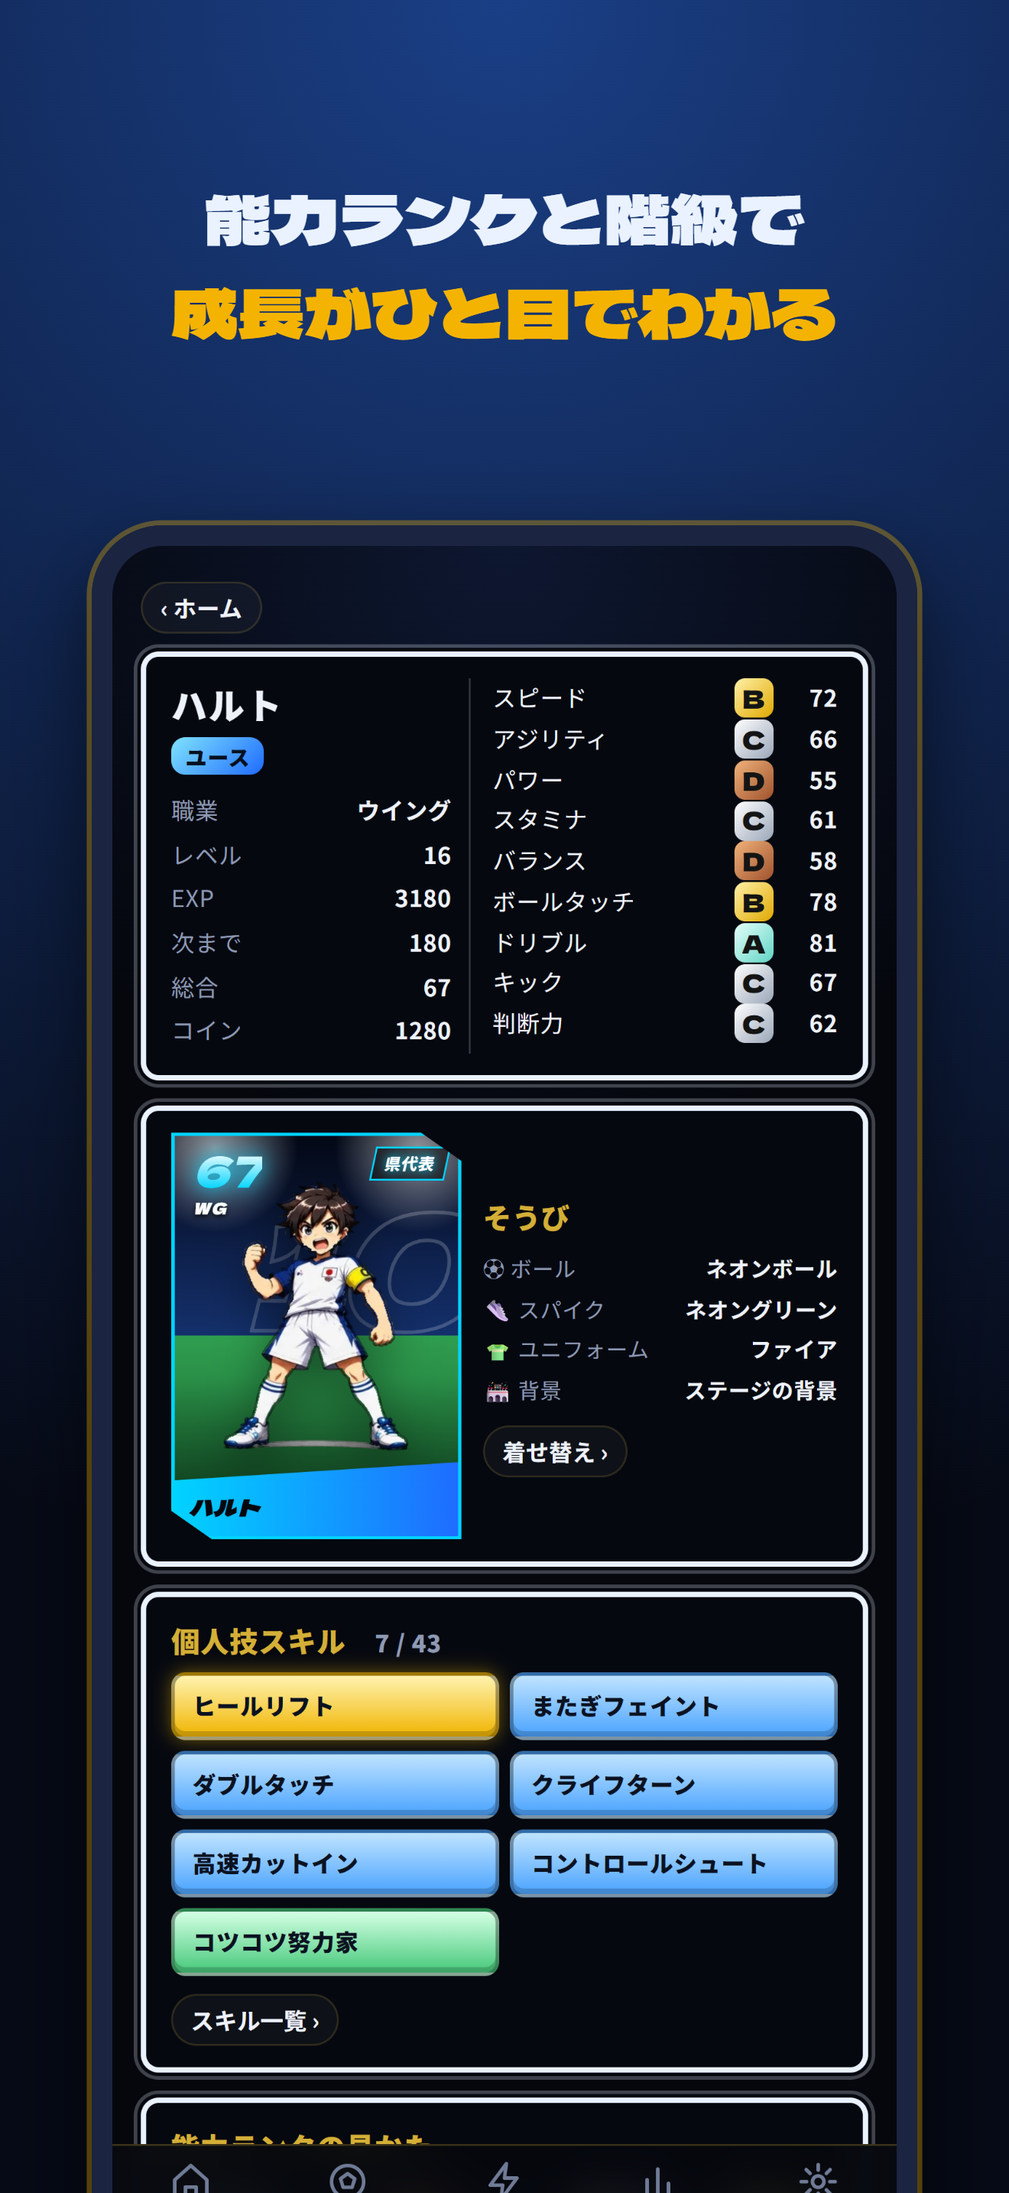
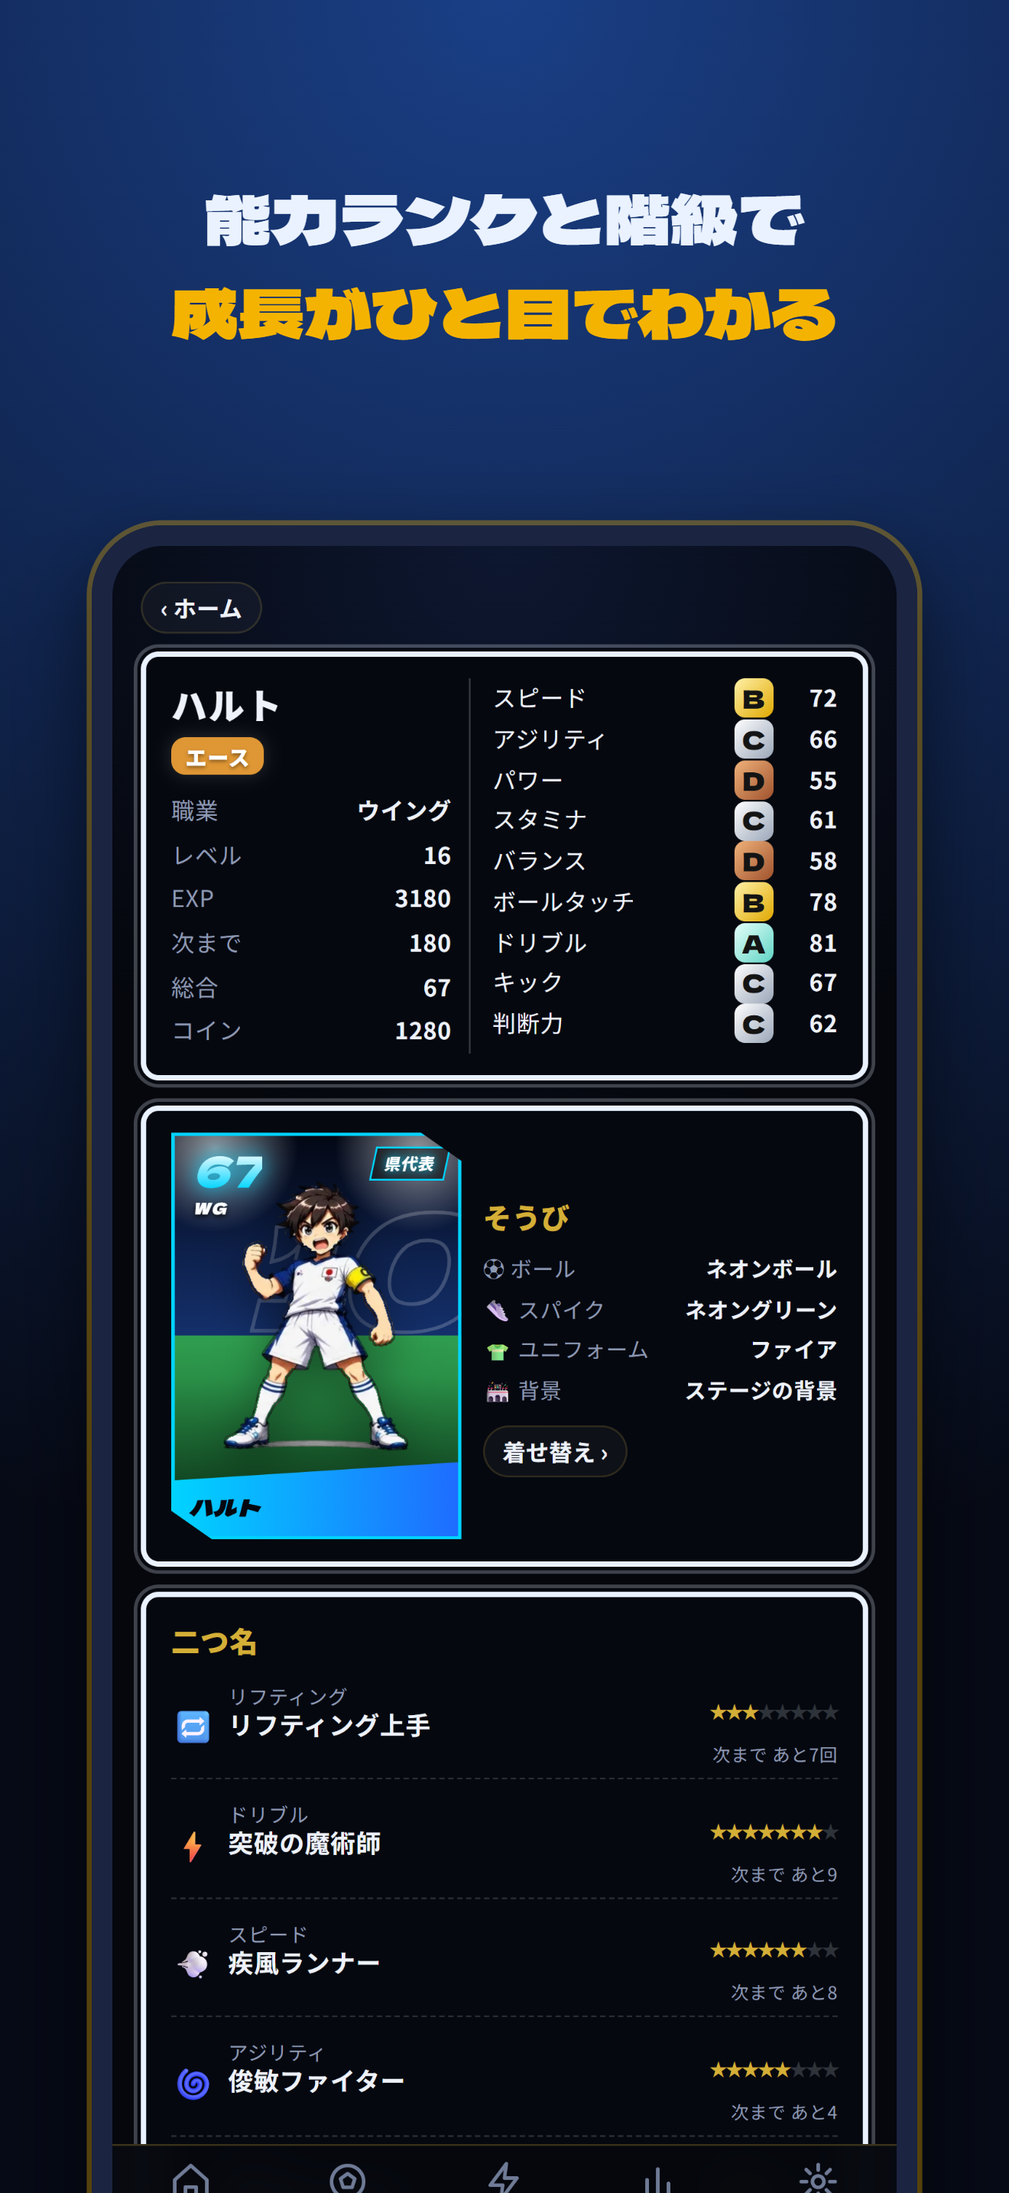
v0.9.0：階級を新しい案に・二つ名（14分野×8段階）・守備の練習メニュー
- 階級をビギナー→ルーキー→プレイヤー→レギュラー→エース→プロ→スーパースター→レジェンドに変更し、段階ごとの色をつけた
- メダルの1段目を「ノーマル」に（階級のビギナーと区別）
- 二つ名を追加：14分野×8段階。能力の分野は能力ランク（G〜S）、リフティング・シュート・パス・ディフェンス・チームワークは練習の回数で上がる
  - 上がったときは結果画面でお知らせ、つよさ画面で一覧と「次まで あと◯」を表示
  - 重なっていた名前（スピードスター）と、Lv1の「よちよち歩き」を見直し、アジリティ・バランスの二つ名を新しく作成
- ディフェンスの練習メニューを5種類追加（全57種類）
- テストを追加（27件）、ストア画像・資料の数字を更新

Changed region(s): [[0.1242, 0.7448, 0.8697, 0.962], [0.1553, 0.3103, 0.2795, 0.3724]]

diff --git a/app.js b/app.js
@@ -11,6 +11,7 @@ const GRPS=[
   {id:'core',   name:'体幹・バランス',   ic:'🧘', cat:'phy'},
   {id:'iq',     name:'頭のトレーニング', ic:'🧠', cat:'iq'},
   {id:'game',   name:'試合・チーム',     ic:'🏟', cat:'game'},
+  {id:'df',     name:'ディフェンス',     ic:'🛡', cat:'tec'},
 ];
 const M=(id,grp,name,lv,gain,d,how,rec)=>Object.assign({id,grp,cat:GRPS.find(g=>g.id===grp).cat,name,lv,gain,d,how,rec:null},rec||{});
 const MENUS=[
@@ -76,6 +77,12 @@ const MENUS=[
   // 試合・チーム
   M('game','game','試合・ミニゲーム',1,{iq:.6,stamina:.5,dribble:.3,kick:.3},'g_game',['試合やミニゲームに参加','練習したことを試してみる','うまくいったことをノートに書こう']),
   M('team','game','チーム練習',1,{iq:.4,stamina:.4,dribble:.3,kick:.3,touch:.3},'g_team',['チームの練習に参加','コーチの話をよく聞く','仲間と声をかけ合う']),
+  // ディフェンス
+  M('df_step','df','守備のサイドステップ',1,{agility:1,balance:.4},'a_side',['ひざを軽く曲げ、低い姿勢で構える','足をクロスさせずに横へステップ','相手を見たまま左右に動く'],{rec:'20秒で何往復？',unit:'回'}),
+  M('df_close','df','寄せてストップ',1,{speed:.6,agility:.6,iq:.3},'a_react',['合図でボール（相手）にダッシュで寄せる','近くなったら小さな歩幅でブレーキ','半身になって止まり、飛びこまない']),
+  M('df_1v1','df','1対1の守備',2,{balance:.8,power:.5,iq:.4},'c_1v1',['家族や友だちにドリブルしてもらう','体を斜めにして、外へ追いこむ','ボールだけでなく相手の腰を見る']),
+  M('df_tackle','df','ボールをうばうタイミング',2,{power:.7,balance:.6,iq:.3},'c_1v1',['相手のタッチが大きくなった瞬間をねらう','足だけでなく体ごと入る','うばったらすぐ前を向く']),
+  M('df_cover','df','守備の位置どりを考える',1,{iq:1},'i_image',['ボール・相手・ゴールを結ぶ線を想像する','その線の上（内側）に立つのが基本','試合の場面を思い出して考えてみよう']),
 ];
 
 /* ===== 図解イラスト（自分のキャラの色で描く・詳しい画面ではボールが動く） ===== */
@@ -393,7 +400,7 @@ function dressed(s,over){
 }
 
 /* ===== アプリ内ダイアログ（ブラウザ標準の alert/confirm は使わない） ===== */
-const APP_VERSION='0.8.3';
+const APP_VERSION='0.9.0';
 function closeOv(){document.getElementById('ov').classList.remove('show')}
 function dialog({icon='',title,msg='',ok='OK',cancel=null,danger=false}){
   return new Promise(res=>{
@@ -738,16 +745,49 @@ const STAGES=[
 const POSE_OF=[0,0,1,1,2,3,3,4];
 function stageOf(L){let r=0;STAGES.forEach((x,i)=>{if(L>=x.lv)r=i});return r}
 /* 階級：成長ステージ（舞台）と同じレベルで昇格する、選手としての格 */
-const RANKS=['はじめたばかり','キッズ','ジュニア','ジュニアユース','ユース','アマチュア','プロ','レジェンド'];
+const RANKS=['ビギナー','ルーキー','プレイヤー','レギュラー','エース','プロ','スーパースター','レジェンド'];
+const RANK_COL=['#8D939D','#36A269','#398BDC','#9062D0','#DF9634','#E34F4F','#24B9DF','#D4A52D'];
+const rankTag=(L,cls)=>`<span class="${cls||'ranktag'}" style="background:${RANK_COL[stageOf(L)]}">${rankOf(L)}</span>`;
 const rankOf=L=>RANKS[stageOf(L)];
-/* メダル：ビギナー→ブロンズ→シルバー→ゴールド→プラチナ→ダイヤ */
-const MEDALS=[{name:'ビギナー',k:'beg'},{name:'ブロンズ',k:'brz'},{name:'シルバー',k:'slv'},{name:'ゴールド',k:'gld'},{name:'プラチナ',k:'plt'},{name:'ダイヤ',k:'dia'}];
+/* メダル：ノーマル→ブロンズ→シルバー→ゴールド→プラチナ→ダイヤ */
+const MEDALS=[{name:'ノーマル',k:'beg'},{name:'ブロンズ',k:'brz'},{name:'シルバー',k:'slv'},{name:'ゴールド',k:'gld'},{name:'プラチナ',k:'plt'},{name:'ダイヤ',k:'dia'}];
 /* 能力ランク（S〜G）。数値の帯ごとにメダルの色 */
 function grade(r){
   const t=[[90,'S',5],[80,'A',4],[70,'B',3],[60,'C',2],[55,'D',1],[50,'E',1],[45,'F',0],[0,'G',0]].find(x=>r>=x[0]);
   return {g:t[1],m:MEDALS[t[2]],next:r>=90?null:[90,80,70,60,55,50,45].reverse().find(x=>x>r)};
 }
 const gradeTag=r=>{const G=grade(r);return `<b class="grade ${G.m.k}">${G.g}</b>`};
+/* 二つ名：分野ごとに8段階。能力の分野は 能力ランク（G〜S）と同じ段階、練習の分野は その練習の回数で上がる */
+const NICK_STEPS=[0,3,7,15,25,40,60,100];
+const NICKS=[
+  {id:'lift',name:'リフティング',ic:'🔁',grp:'lift',t:['リフティング見習い','ボールバウンサー','リフティング上手','リフティング名人','テクニシャン','ボールマスター','空中の魔術師','リフティング神']},
+  {id:'dribble',name:'ドリブル',ic:'⚡',stat:'dribble',t:['ドリブル見習い','ボール運び上手','ドリブラー','スーパードリブラー','ドリブルスター','ドリブル忍者','突破の魔術師','ドリブルレジェンド']},
+  {id:'speed',name:'スピード',ic:'💨',stat:'speed',t:['かけっこ初心者','かけっこ上手','スプリンター','快速ランナー','スピードスター','疾風ランナー','稲妻ランナー','光速の覇者']},
+  {id:'agility',name:'アジリティ',ic:'🌀',stat:'agility',t:['アジリティ見習い','ステップ上手','クイックステッパー','切り返し名人','俊敏ファイター','ターンの達人','残像ステップ','神速ステップ']},
+  {id:'power',name:'パワー',ic:'💥',stat:'power',t:['パワー見習い','力もち','パワーファイター','タフファイター','パワーエース','怪力ファイター','鋼の戦士','パワーレジェンド']},
+  {id:'stamina',name:'スタミナ',ic:'❤',stat:'stamina',t:['スタミナ見習い','元気ランナー','持久力ファイター','タフランナー','無限ランナー','鉄人','不屈の鉄人','無限の心臓']},
+  {id:'balance',name:'バランス',ic:'🧘',stat:'balance',t:['バランス見習い','ふんばり上手','体幹ファイター','ぶれない体','当たり負け知らず','鉄の体幹','不動の軸','体幹レジェンド']},
+  {id:'kick',name:'キック力',ic:'🦵',stat:'kick',t:['キック見習い','キッカー','パワーキッカー','ロングキッカー','キャノンキッカー','弾丸キッカー','雷撃キャノン','キックの覇者']},
+  {id:'shoot',name:'シュート',ic:'🥅',menus:['shoot','target'],t:['シュート見習い','ゴールチャレンジャー','シューター','ゴールハンター','ストライカー','エースストライカー','ゴールの魔術師','ゴールレジェンド']},
+  {id:'pass',name:'パス',ic:'🤝',menus:['pass','wall_1t','long_kick'],t:['パス見習い','パス上手','パサー','チャンスメーカー','プレーメーカー','アシストマスター','ピッチの司令塔','パスの魔術師']},
+  {id:'touch',name:'トラップ・タッチ',ic:'🦶',stat:'touch',t:['トラップ見習い','ボールキャッチャー','トラッパー','コントロール名人','ファーストタッチ職人','トラップマスター','吸い付く足','タッチの魔術師']},
+  {id:'df',name:'ディフェンス',ic:'🛡',grp:'df',t:['守備見習い','守備ファイター','ディフェンダー','ボールハンター','守備職人','鉄壁ディフェンダー','ピッチの番人','伝説の守護者']},
+  {id:'iq',name:'判断力',ic:'🧠',stat:'iq',t:['ひらめき見習い','観察上手','判断上手','ゲームリーダー','戦術家','ピッチの頭脳','先読みの達人','天才司令塔']},
+  {id:'team',name:'チームワーク',ic:'🏟',grp:'game',t:['仲間づくり見習い','応援マスター','チームプレイヤー','ムードメーカー','チームの支え','頼れるリーダー','キャプテン','絆のレジェンド']},
+];
+const GRADE_IDX={G:0,F:1,E:2,D:3,C:4,B:5,A:6,S:7};
+function nickOf(s,N){
+  if(N.stat){const v=rt(s,N.stat), i=GRADE_IDX[grade(v).g], nx=grade(v).next;return {i,t:N.t[i],cur:v,next:nx,unit:''}}
+  const n=s.logs.filter(l=>!l.rest&&(N.grp?(menuOf(l.menu)||{}).grp===N.grp:N.menus.includes(l.menu))).length;
+  let i=0; NICK_STEPS.forEach((x,j)=>{if(n>=x)i=j});
+  return {i,t:N.t[i],cur:n,next:NICK_STEPS[i+1]??null,unit:'回'};
+}
+/* 二つ名が上がったものを調べる（初めては記録だけ） */
+function nickUps(){
+  const first=!S.nick; S.nick=S.nick||{}; const ups=[];
+  NICKS.forEach(N=>{const x=nickOf(S,N);if(!first&&x.i>(S.nick[N.id]??0))ups.push({N,x});S.nick[N.id]=Math.max(x.i,S.nick[N.id]??0)});
+  return ups;
+}
 /* 練習メニューの熟練度：同じメニューを続けた回数でメダルが上がる */
 const MASTERY=[1,3,7,15,30,50];
 function mastery(s,id){
@@ -1128,7 +1168,7 @@ function homeView(){
     <button class="coin" onclick="go('shop')" style="position:absolute;right:14px;top:12px;z-index:5">🪙 ${S.coin||0}</button>
     ${cardView(S,L,stageOf(L))}
     ${t?`<div class="title-badge" style="margin-top:10px">${t.ic} ${t.name}</div><br>`:''}
-    <div class="lv">Lv. ${L}</div> <span class="ranktag">${rankOf(L)}</span> <span class="jobtag">${J.name}</span>
+    <div class="lv">Lv. ${L}</div> ${rankTag(L)} <span class="jobtag">${J.name}</span>
     <div class="xpbar"><i style="width:${r/n*100}%"></i></div>
     <div class="xptext">次のレベルまで あと${n-r} EXP</div>
     <div class="hprow"><b>HP</b><div class="hpbar"><i style="width:${hp}%;background:${hp<25?'#ff4d4d':hp<50?'#ffb020':'#3ee08f'}"></i></div><span>${hp}/100</span></div>
@@ -1261,7 +1301,8 @@ function unlocks(){
   if(newT.length&&!S.eq)S.eq=newT[newT.length-1].id;
   const newS=SKILLS.filter(k=>!S.skills.includes(k.name)&&k.ok(S));
   newS.forEach(k=>S.skills.push(k.name));
-  return {newT,newS};
+  const newN=nickUps();
+  return {newT,newS,newN};
 }
 function gain(xp,notes,coin=0){
   const before=lv(S.xp).L;
@@ -1269,7 +1310,8 @@ function gain(xp,notes,coin=0){
   const after=lv(S.xp).L;
   if(after>before){S.bp=(S.bp||0)+3*(after-before);notes.push(`育成ポイント +${3*(after-before)}`)}
   if(stageOf(after)>stageOf(before)){const R=STAGES[stageOf(after)];notes.push(`昇格！ 階級が <b>${rankOf(after)}</b> になった！`);notes.push(`ステージアップ！ <b>${R.name}</b>に進出！`)}
-  const {newT,newS}=unlocks();
+  const {newT,newS,newN}=unlocks();
+  newN.forEach(({N,x})=>notes.push(`${N.ic} ${N.name}の二つ名が <b>「${x.t}」</b> になった！`));
   const gear=GEAR.filter(g=>g.lv>before&&g.lv<=after);
   coin+=newT.length*30+(stageOf(after)>stageOf(before)?200:0);
   coin+=roadGain(xp,notes);
@@ -1281,10 +1323,11 @@ function gain(xp,notes,coin=0){
 function allot(id){
   if(!(S.bp>0))return;
   S.stats[id]=Math.max(S.stats[id],(rt(S,id)-40)*3)+3; S.bp--;
-  const {newT,newS}=unlocks();
+  const {newT,newS,newN}=unlocks();
   if(newT.length)S.coin=(S.coin||0)+newT.length*30;
   save();render();
-  if(newT.length||newS.length)showResult(0,1,1,newT,[],newT.length?[`🪙 コイン +${newT.length*30}`]:[],newS);
+  const nn=newN.map(({N,x})=>`${N.ic} ${N.name}の二つ名が <b>「${x.t}」</b> になった！`);
+  if(newT.length||newS.length||nn.length)showResult(0,1,1,newT,[],[...(newT.length?[`🪙 コイン +${newT.length*30}`]:[]),...nn],newS);
 }
 function showResult(xp,b,a,newT,gear,notes,newS=[]){
   const up=a>b, awk=stageOf(a)>stageOf(b);
@@ -1332,7 +1375,7 @@ function statusView(){
     <div class="dqwin stv-top">
       <div class="stv-l">
         <div class="stv-name">${esc(c.name)}</div>
-        <div class="stv-rank">${rankOf(L)}</div>
+        <div>${rankTag(L,'stv-rank')}</div>
         <div class="stv-row"><span>職業</span><b>${J.name}</b></div>
         <div class="stv-row"><span>レベル</span><b>${L}</b></div>
         <div class="stv-row"><span>EXP</span><b>${S.xp}</b></div>
@@ -1353,6 +1396,9 @@ function statusView(){
         <button class="chip mini" onclick="go('wardrobe')" style="margin-top:8px">着せ替え ›</button>
       </div>
     </div>
+    <div class="dqwin"><div class="stv-eqh">二つ名</div>
+      <div class="nicklist">${NICKS.map(N=>{const x=nickOf(S,N);return `<div class="nick"><span class="nic">${N.ic}</span><span class="nmain"><small>${N.name}</small><b>${x.t}</b></span><span class="nlv">${'★'.repeat(x.i+1)}<i>${'★'.repeat(7-x.i)}</i></span>${x.next!=null?`<span class="nnext">次まで あと${x.next-x.cur}${x.unit||''}</span>`:'<span class="nnext">最高！</span>'}</div>`}).join('')}</div>
+      <p class="sub" style="margin:8px 0 0">能力の分野は能力ランク（G〜S）で、練習の分野はその練習をした回数で上がるよ。</p></div>
     <div class="dqwin"><div class="stv-eqh">個人技スキル　<small>${got.length} / ${SKILLS.length}</small></div>
       <div class="skgrid">${got.length?got.map(k=>`<div class="skchip ${k.tier}">${k.name}</div>`).join(''):'<p class="sub" style="margin:4px 0">まだ習得していないよ。練習を続けてみよう！</p>'}</div>
       <button class="chip mini" onclick="go('skill')" style="margin-top:10px">スキル一覧 ›</button></div>

diff --git a/app.css b/app.css
@@ -394,3 +394,16 @@ li .skchip{display:inline-flex;min-height:0;padding:1px 8px;font-size:13px}
 .stv-eqh{font-weight:900;color:var(--gold);margin-bottom:6px}
 .stv-eqh small{color:var(--sub)}
 .stv-eq .stv-row{font-size:12px}
+
+/* 二つ名（v0.9.0） */
+.ranktag,.stv-rank{color:#fff!important;text-shadow:0 1px 2px rgba(0,0,0,.45);box-shadow:0 0 10px rgba(255,255,255,.15)}
+.nicklist{display:flex;flex-direction:column;gap:6px}
+.nick{display:grid;grid-template-columns:24px 1fr auto;grid-template-rows:auto auto;column-gap:8px;align-items:center;padding:6px 0;border-bottom:1px dashed rgba(234,242,255,.15)}
+.nick:last-child{border-bottom:0}
+.nick .nic{grid-row:1/3;font-size:18px;text-align:center}
+.nick .nmain{display:flex;flex-direction:column;line-height:1.3}
+.nick .nmain small{color:var(--sub);font-size:11px}
+.nick .nmain b{font-size:14px}
+.nick .nlv{color:var(--gold);font-size:10px;letter-spacing:-1px;text-align:right}
+.nick .nlv i{font-style:normal;color:rgba(234,242,255,.18)}
+.nick .nnext{grid-column:3;color:var(--sub);font-size:10px;text-align:right}

diff --git a/tools/store_shots.js b/tools/store_shots.js
@@ -17,7 +17,7 @@ const TYPES = { '.html': 'text/html; charset=utf-8', '.js': 'text/javascript; ch
 const SHOTS = [
   { tab: 'home', file: '1-home', cap: '練習するほど<br><em>自分の選手が強くなる</em>' },
   { tab: 'status', file: '2-status', cap: '能力ランクと階級で<br><em>成長がひと目でわかる</em>' },
-  { tab: 'practice', file: '3-practice', cap: '52種類の練習メニューを<br><em>イラストでわかりやすく</em>' },
+  { tab: 'practice', file: '3-practice', cap: '57種類の練習メニューを<br><em>イラストでわかりやすく</em>' },
   { tab: 'skill', file: '4-skill', cap: '練習を続けて<br><em>個人技スキルを習得</em>', js: "document.querySelector('.skhead').scrollIntoView()" },
   { tab: 'log', file: '5-log', cap: 'カレンダーで<br><em>続けた日がひと目でわかる</em>' },
   { tab: 'shop', file: '6-shop', cap: 'コインをためて<br><em>ボールやスパイクを着せ替え</em>' },

diff --git a/sw.js b/sw.js
@@ -1,6 +1,6 @@
 /* オフラインでも起動できるようにする Service Worker
    アプリを更新したら VERSION を上げると、古いキャッシュが入れかわる */
-const VERSION = 'rq-0.8.3';
+const VERSION = 'rq-0.9.0';
 const CORE = ['./', './index.html', './app.css', './app.js', './manifest.webmanifest',
   './icons/icon-192.png', './icons/icon-512.png', './icons/apple-touch-icon.png', './fonts/fonts.css'];
 

diff --git a/docs/ストア掲載文（案）.md b/docs/ストア掲載文（案）.md
@@ -20,7 +20,7 @@
 ■ おうちの庭から、ワールドクラスへ
 レベルが上がると、選手カードが進化。「おうちの庭」から「公園」「チーム入団」「トレセン」「県代表」「日本代表」…そして「ワールドクラス」を目指そう。
 
-■ 52種類の練習メニュー（図解つき）
+■ 57種類の練習メニュー（図解つき）
 足裏コロコロ、インアウト、クライフターン、8の字ドリブル、壁パス、ラダー、プランク…。定番の自主練メニューを、わかりやすいイラストとやり方つきで紹介。
 
 ■ 毎日のクエストと、週替わりのライバル
@@ -51,7 +51,7 @@
 ## スクリーンショットの案（6枚）
 1. ホーム（選手カード）「練習するほど、強くなる。」
 2. カードの8ステージ一覧「おうちの庭から、ワールドクラスへ」
-3. 練習メニューの図解「52種類の練習を、イラストでわかりやすく」
+3. 練習メニューの図解「57種類の練習を、イラストでわかりやすく」
 4. レベルアップ演出「レベルアップ！ 能力がぐんぐん伸びる」
 5. 今日のクエストとライバル「毎日がチャレンジ」
 6. カレンダー「続けた日が、一目でわかる」

diff --git a/CLAUDE.md b/CLAUDE.md
@@ -50,8 +50,9 @@
 - 他社作品（ドラクエ・ブルーロック・ワンピースカードなど）は雰囲気の参考のみ。名前・キャラ・ロゴは使わない。
 
 ## 主な仕組み（app.js）
-- 能力9種 `SPORT.stats`／練習メニュー52種 `MENUS`（図解 `diag()`）／職業 `JOBS`／称号 `TITLES`／スキル `SKILLS`
+- 能力9種 `SPORT.stats`／練習メニュー57種 `MENUS`（図解 `diag()`）／職業 `JOBS`／称号 `TITLES`／スキル `SKILLS`
 - 階級 `RANKS`（ステージと同じレベルで昇格）／能力ランクS〜G `grade()`／メダル `MEDALS`（ビギナー→ダイヤ）／練習の熟練度 `mastery()`
+- 二つ名 `NICKS`（14分野×8段階。能力の分野は能力ランク、練習の分野は回数で上がる）／階級の色 `RANK_COL`
 - 個人技スキル `SKILLS`（金・技・心がまえの札。`name` は保存のキーなので変えない）／つよさ画面 `statusView()`
 - 成長ステージ8段階 `STAGES`（おうちの庭→公園→チーム入団→トレセン→県代表→地方代表→日本代表→ワールドクラス）
 - クエスト `QPOOL`／ライバル `BOSSES`／宝箱 `openChest()`／月間ロード `roadReward()`／お守り・ふりかえり `dailyCheck()`
